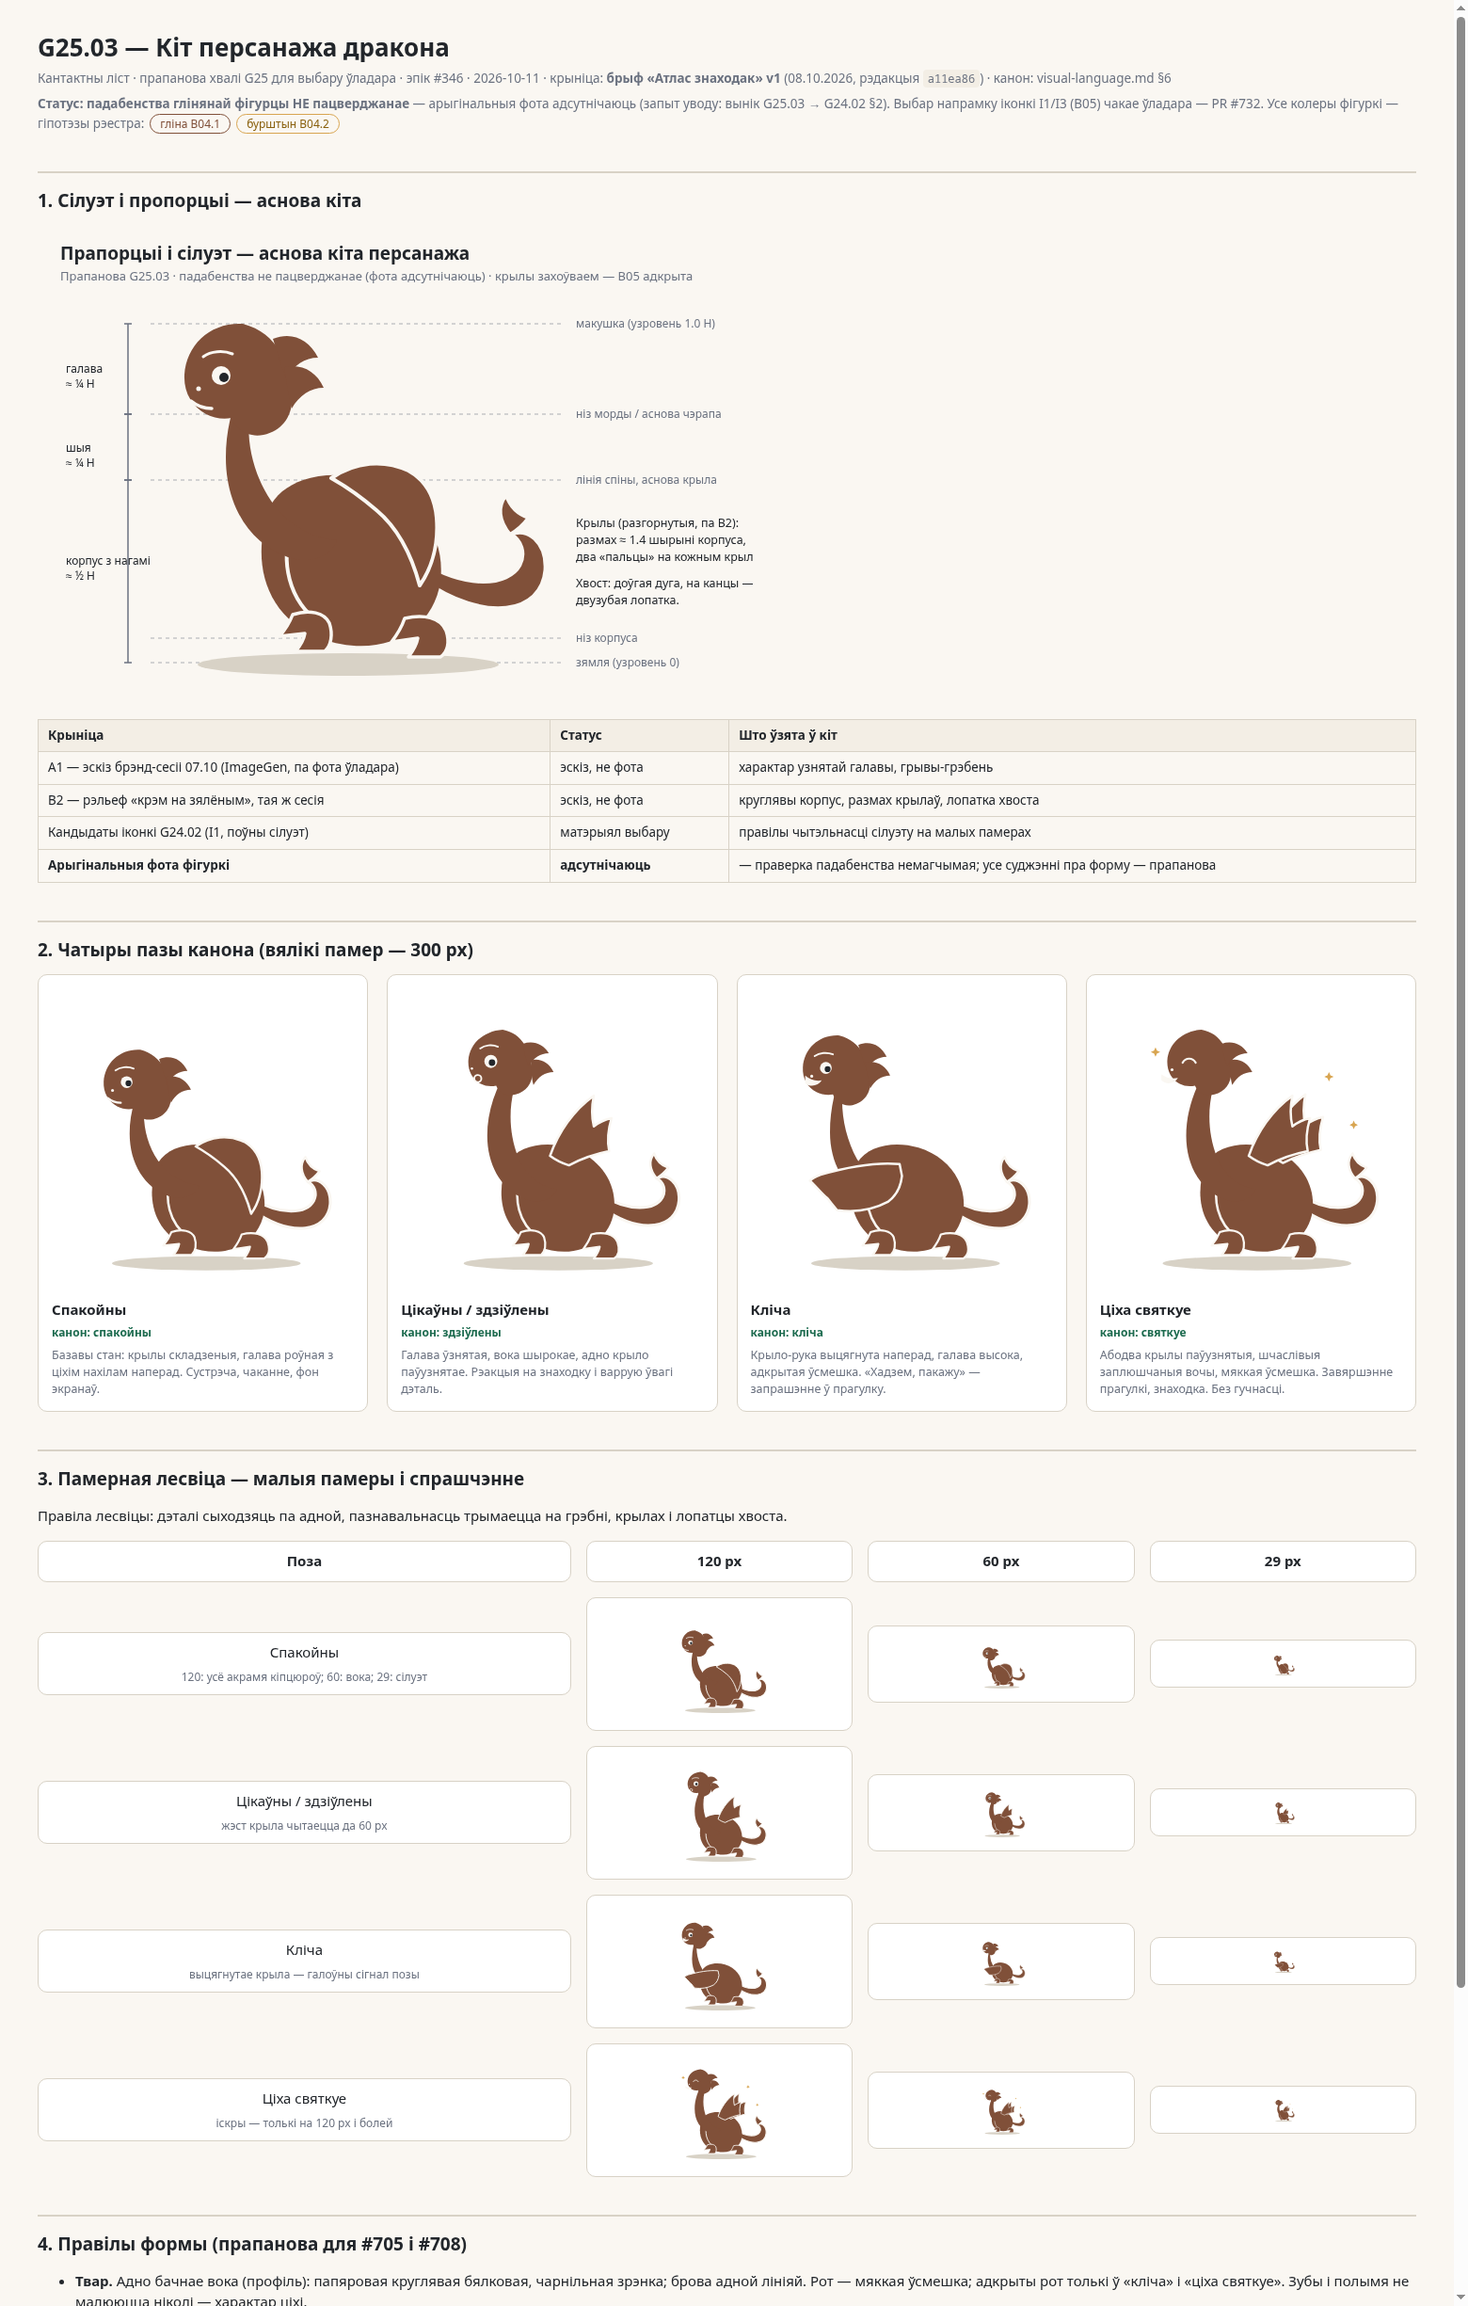
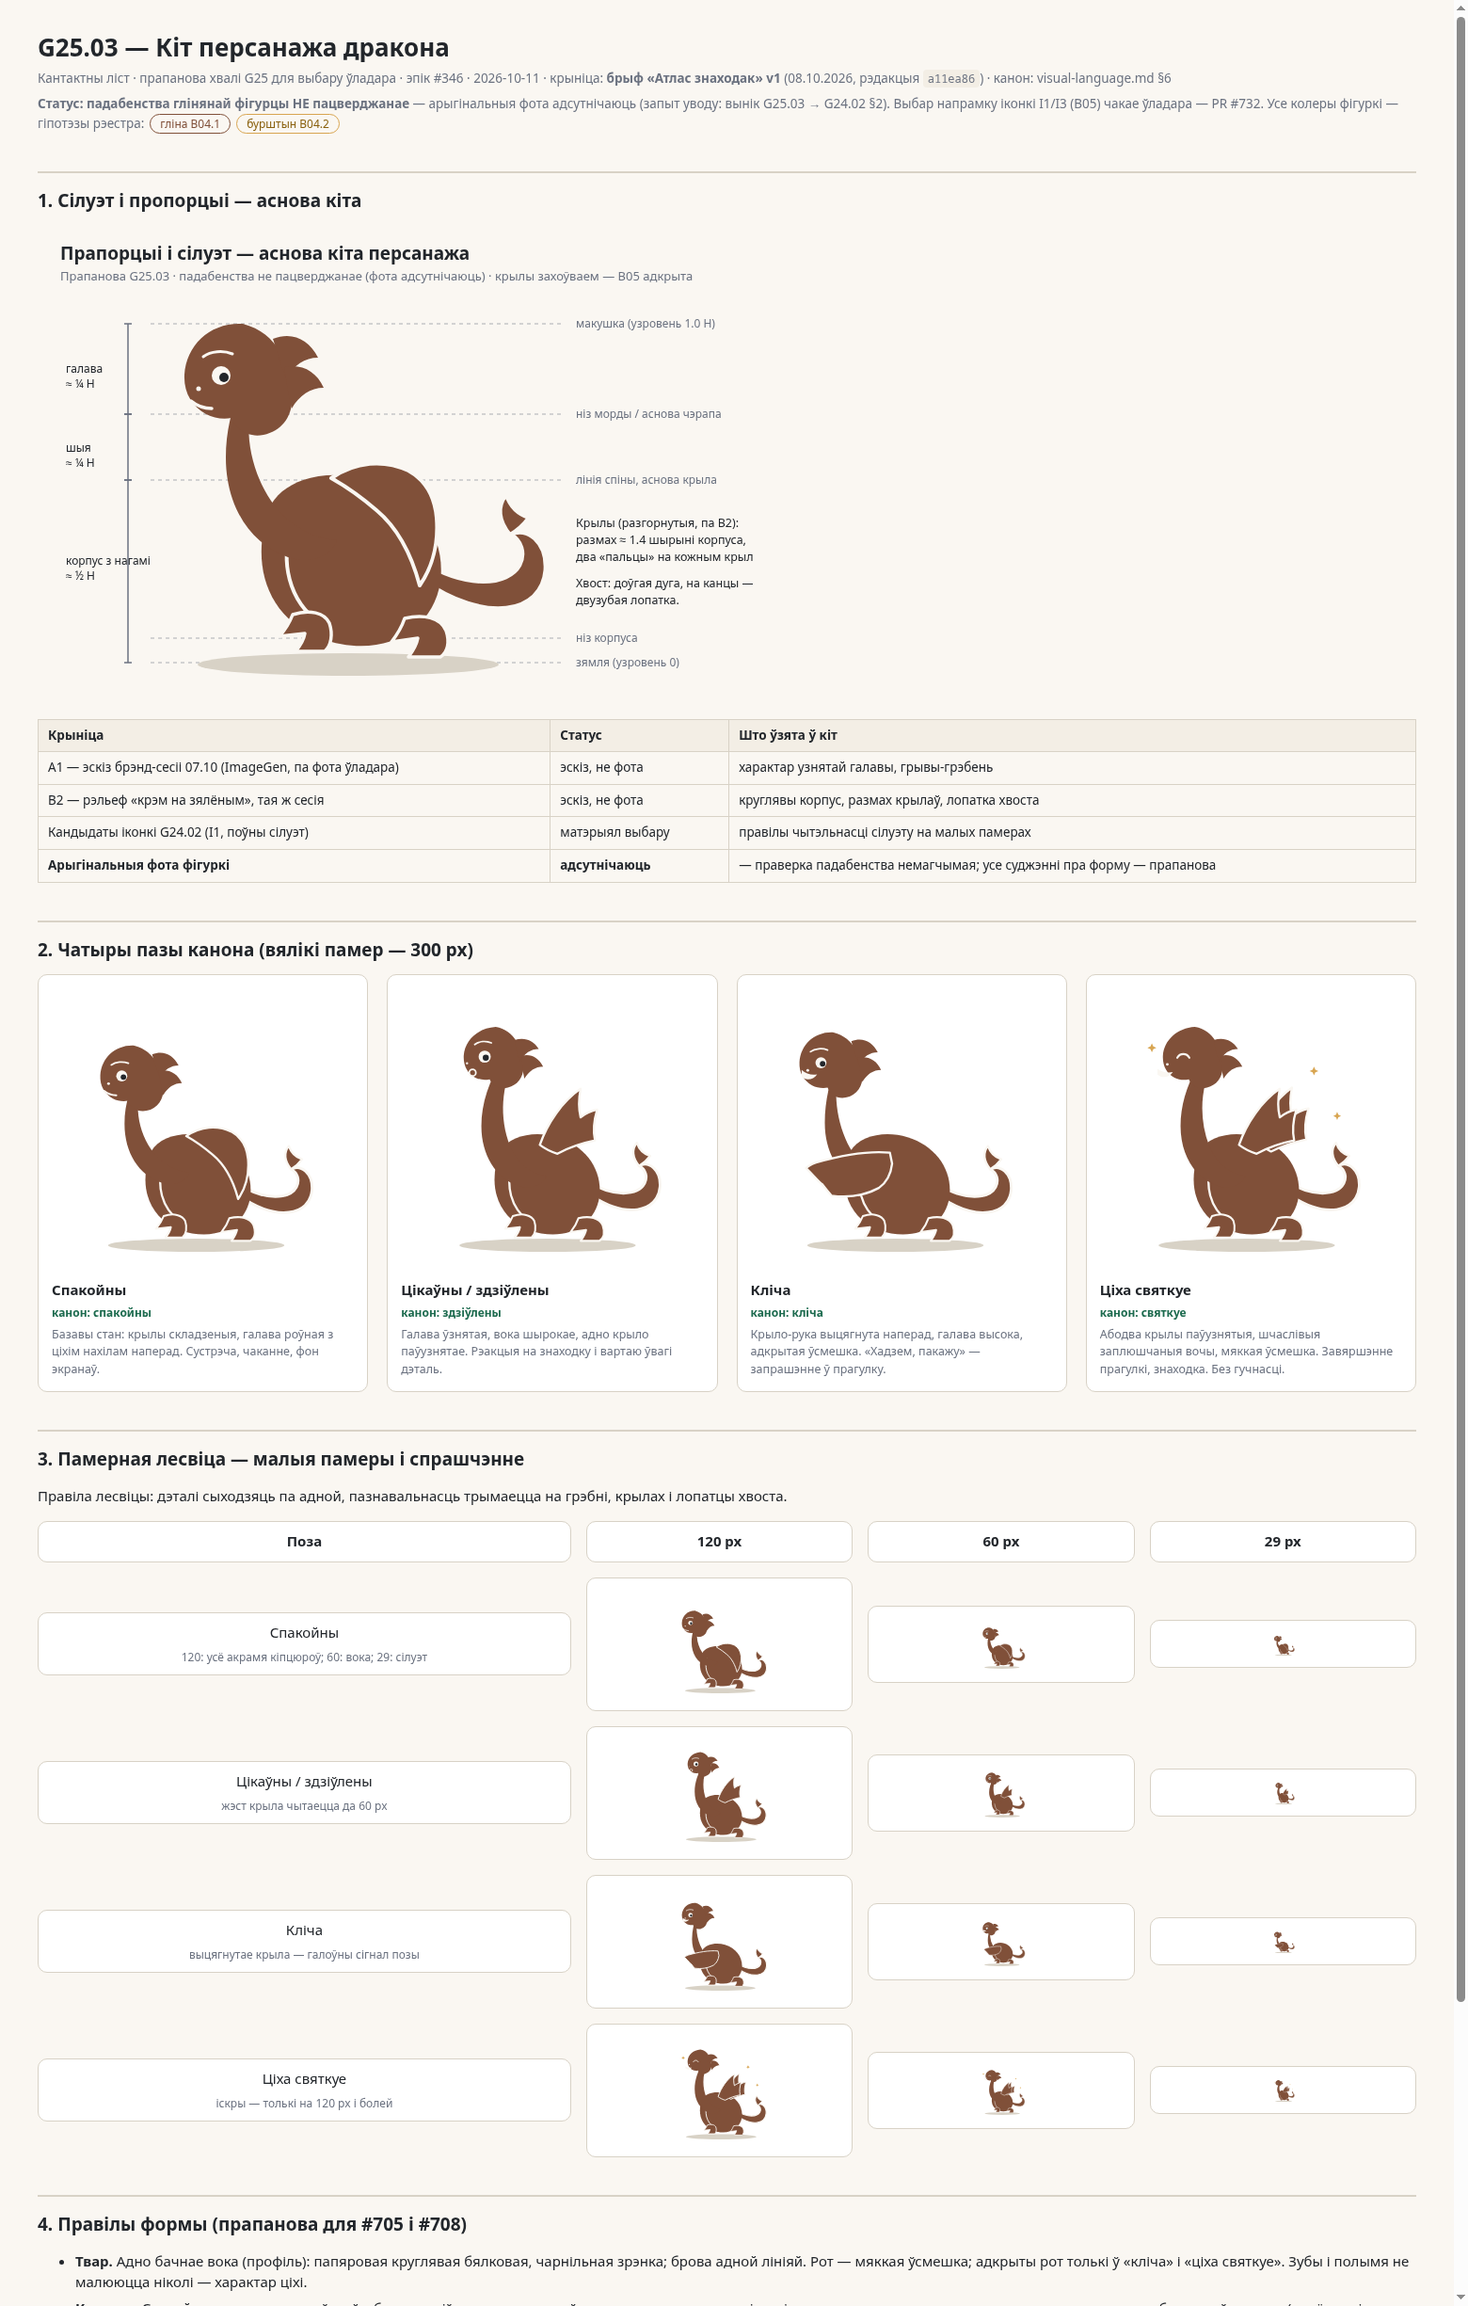
G25.03: review fixes — timing interval, pose naming claim, typos, sheet widths

diff --git a/docs/design/brand/outputs/G25.03/contact-sheet.html b/docs/design/brand/outputs/G25.03/contact-sheet.html
@@ -27,7 +27,7 @@
   th { background: #F3EEE5; font-weight: 600; }
   .poses { display: grid; grid-template-columns: repeat(4, 1fr); gap: 20px; }
   .pose { background: #fff; border: 1px solid var(--line); border-radius: 10px; padding: 14px; }
-  .pose img { width: 100%; display: block; }
+  .pose img { width: 300px; max-width: 100%; display: block; }
   .pose h3 { font-size: 15px; margin: 10px 0 4px; }
   .pose .state { color: var(--accent); font-size: 12px; font-weight: 600; }
   .pose p { font-size: 12.5px; color: var(--muted); margin: 6px 0 0; }
@@ -73,7 +73,7 @@
     <img src="pose-curious.svg" alt="Поза цікаўны/здзіўлены">
     <h3>Цікаўны / здзіўлены</h3>
     <div class="state">канон: здзіўлены</div>
-    <p>Галава ўзнятая, вока шырокае, адно крыло паўузнятае. Рэакцыя на знаходку і варрую ўвагі дэталь.</p>
+    <p>Галава ўзнятая, вока шырокае, адно крыло паўузнятае. Рэакцыя на знаходку і вартаю ўвагі дэталь.</p>
   </div>
   <div class="pose">
     <img src="pose-inviting.svg" alt="Поза кліча">

diff --git a/docs/agent-tasks/results/G25.03.md b/docs/agent-tasks/results/G25.03.md
@@ -25,7 +25,7 @@ Issue: [#702](https://github.com/vokhandcrafts/KUDY/issues/702) · Эпік: [#3
 ## Пакрыццё крытэраў карткі
 
 1. **Пропорцыі/сілуэт з даступных уваходаў + абраны напрамак G24.02; паходжанне; пры адсутнасці арыгіналаў — запыт уводу і пазнака неправеранага падабенства** — аркуш [dragon-silhouette.svg](../../design/brand/outputs/G25.03/dragon-silhouette.svg) (сетка вышынь: галава ≈ ¼ H, шыя ≈ ¼ H, корпус з нагамі ≈ ½ H; заўвагі крылаў/хвоста) і табліца паходжання ў §1 [кантактнага ліста](../../design/brand/outputs/G25.03/contact-sheet.html). **Абход ужыты дакладна па картцы:** арыгінальных фота ў рэпазітары няма (праверана ў G24.02 §2; references/README.md гаворыць пра тое ж), абранага напрамку G24.02 яшчэ няма (выбар I1/I3 — human action PR #732). Кіт пабудаваны з даступных уваходаў (A1, B2, кандыдаты G24.02) з табліцай «што ўзята»; запыт уводу НЕ дублюецца — спасылка на спіс пяці кадраў G24.02 §2 (кожны пералік пераказваецца аднойчы). Усе суджэнні пра падабенства пазначаныя «не пацверджанае» — у шапках SVG, на дошцы і тут.
-2. **Чатыры позы на вялікім і малым памерах + правілы твара, крылаў, шыі і дапушчальнага спрашчэння** — [pose-calm.svg](../../design/brand/outputs/G25.03/pose-calm.svg), [pose-curious.svg](../../design/brand/outputs/G25.03/pose-curious.svg), [pose-inviting.svg](../../design/brand/outputs/G25.03/pose-inviting.svg), [pose-celebrating.svg](../../design/brand/outputs/G25.03/pose-celebrating.svg); назвы станаў — даслоўна `dragonStates` канона. Вялікі памер — 300 px (§2 дошкі), малыя — лесвіца 120/60/29 px (§3 дошкі). Правілы — §4 дошкі: твар (адно вока, усмешка, адкрыты рот толькі ў дзвюх позах, без зубоў і полымя), крылы (стан ↔ пастава: складзенае/паўузнятае/выцягнутае/абодва), шыя (S-выгін заўсёды; узнятая галава — жэст трох поз, не абавязковая пастава — даслоўна па брыфу), спрашчэнне (120: без кіпцюроў; 60: сілуэт+вока; 29: сілуэт; іскры і адкрыты рот — толькі вялікія памеры).
+2. **Чатыры позы на вялікім і малым памерах + правілы твара, крылаў, шыі і дапушчальнага спрашчэння** — [pose-calm.svg](../../design/brand/outputs/G25.03/pose-calm.svg), [pose-curious.svg](../../design/brand/outputs/G25.03/pose-curious.svg), [pose-inviting.svg](../../design/brand/outputs/G25.03/pose-inviting.svg), [pose-celebrating.svg](../../design/brand/outputs/G25.03/pose-celebrating.svg); позы адлюстроўваюць станы `dragonStates` канона, канонныя назвы пазначаныя ў падпісах «канон: …» дошкі. Вялікі памер — 300 px (§2 дошкі), малыя — лесвіца 120/60/29 px (§3 дошкі). Правілы — §4 дошкі: твар (адно вока, усмешка, адкрыты рот толькі ў дзвюх позах, без зубоў і полымя), крылы (стан ↔ пастава: складзенае/паўузнятае/выцягнутае/абодва), шыя (S-выгін заўсёды; узнятая галава — жэст трох поз, не абавязковая пастава — даслоўна па брыфу), спрашчэнне (120: без кіпцюроў; 60: сілуэт+вока; 29: сілуэт; іскры і адкрыты рот — толькі вялікія памеры).
 3. **Рэпетыцыя сцэны з разметкай, 95 с запланаванага маўчання і плэйсхолдарамі S1/S2; без назіранага выступу — паўторны тэст-скрыпт і пазнака «выступ чакае»** — [scene-rehearsal.md](../../design/brand/outputs/G25.03/scene-rehearsal.md): разметка 8 бітаў з рэплікамі даслоўна з брыфа, сума маўчання 43+17+35 = 95 с супадае з брыфам; плэйсхолдары S1/S2 з арыенцірамі 0,5–0,8 с і да 1 с; ацэнкі працягласці чытання пазначаныя як ацэнка (103/96/373/64/79 знакаў → 52–65 с чыстага голасу); паўторны пратакол §4 з шаблонам запісу і крытэрамі прыёмкі; выступ **pending** — чалавека-чытальніка і назіральніка ў сэсіі няма.
 4. **Кароткія галасовыя ўзоры прывітання, запрашэння, памылкі, паўзы і завяршэння; прызначэнне; яўныя дзеянні, адзін уладальнік аўдыё, без ціску; гукавы handoff да #694 без другога матыву** — [voice-examples.md](../../design/brand/outputs/G25.03/voice-examples.md): пяць з'яўленняў, тры з іх — даслоўныя радкі брыфа (прывітанне, запрашэнне, завяршэнне), дзве — новыя прапановы з пазнакай (памылка/збой, вяртанне пасля паўзы). Агульныя межы §1 (яўнае дзеянне, адзін уладальнік аўдыё, без ціску і віны, крытычныя паведамленні не mascot-only, адключальнасць). Handoff — табліца S1/S2 (адзін матыў і яго завяршэнне) + забарона новых гукаў разметкай сцэны; нічога для #694 больш не патрабуецца.
 

diff --git a/docs/design/brand/outputs/G25.03/scene-rehearsal.md b/docs/design/brand/outputs/G25.03/scene-rehearsal.md
@@ -3,8 +3,8 @@
 - Дата: 2026-10-11 · issue [#702](https://github.com/vokhandcrafts/KUDY/issues/702) · эпік [#346](https://github.com/vokhandcrafts/KUDY/issues/346).
 - Статус: **прапанова + паўторны пратакол**. Рэпетыцыя з жывым чытальнікам НЕ праводзілася —
   выканаўца сэсіі не мае голасу, назіральніка і запісу; праверка выступу пазначаная **чакаючай**
-  (крытэрый 3 карткі дазваляе такі абход: «otherwise provide a repeatable test script and
-  mark performance testing pending»).
+  ( няма чалавека ў сэсіі; крытэрый 3 карткі дазваляе такі абход: «otherwise provide a repeatable
+  test script and mark performance testing pending»).
 - Крыніца: [брыф «Атлас знаходак» v1](../../atlas-brief.md), раздзел
   «Сцэна: Горад у адлюстраванні» (рэдакцыя `a11ea86`, 08.10.2026). Усе рэплікі скапіяваныя
   даслоўна; нічога ў брыфе не змяняецца. B09 рэестра рашэнняў: сцэна — рэферэнс для тэсту,
@@ -46,7 +46,7 @@
 | 8 | фінал | 79 | 6–7 с | ~10 с |
 
 Разам голас ≈ 52–65 с чыстага чытання, з паўзамі ≈ 83 с — укладаецца ў рэжысёрскія
-0:12–0:12 / 0:55–1:08 / 1:25–2:05 / 2:40–3:00 брыфа. Лічбы — распарадкавальныя арыенціры
+0:00–0:12 / 0:55–1:08 / 1:25–2:05 / 2:40–3:00 брыфа. Лічбы — распарадкавальныя арыенціры
 для рэпетыцыі; факт запісваецца толькі з жывога чытання (§4).
 
 ## 4. Паўторны пратакол рэпетыцыі (выконвае чалавек)
